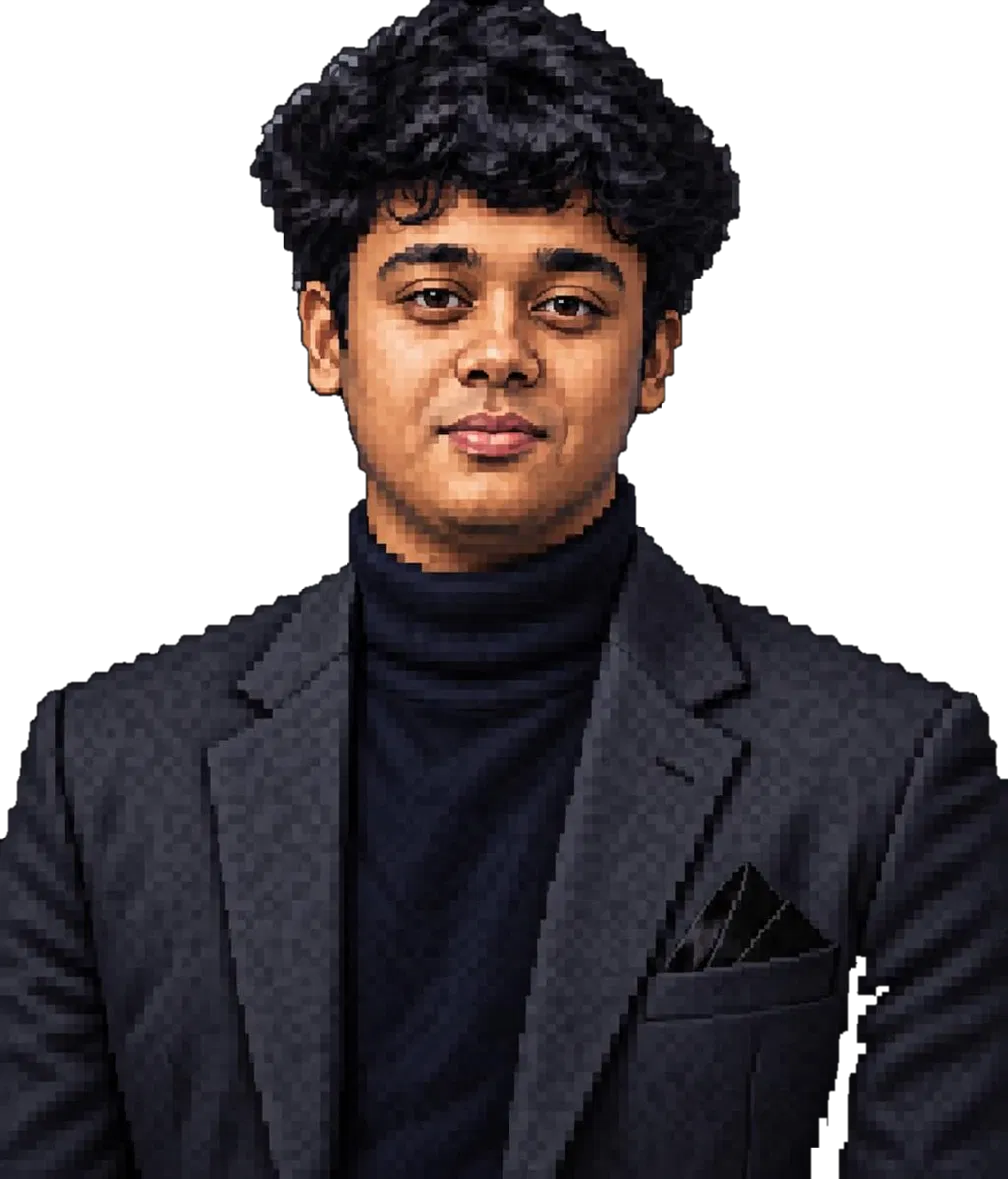
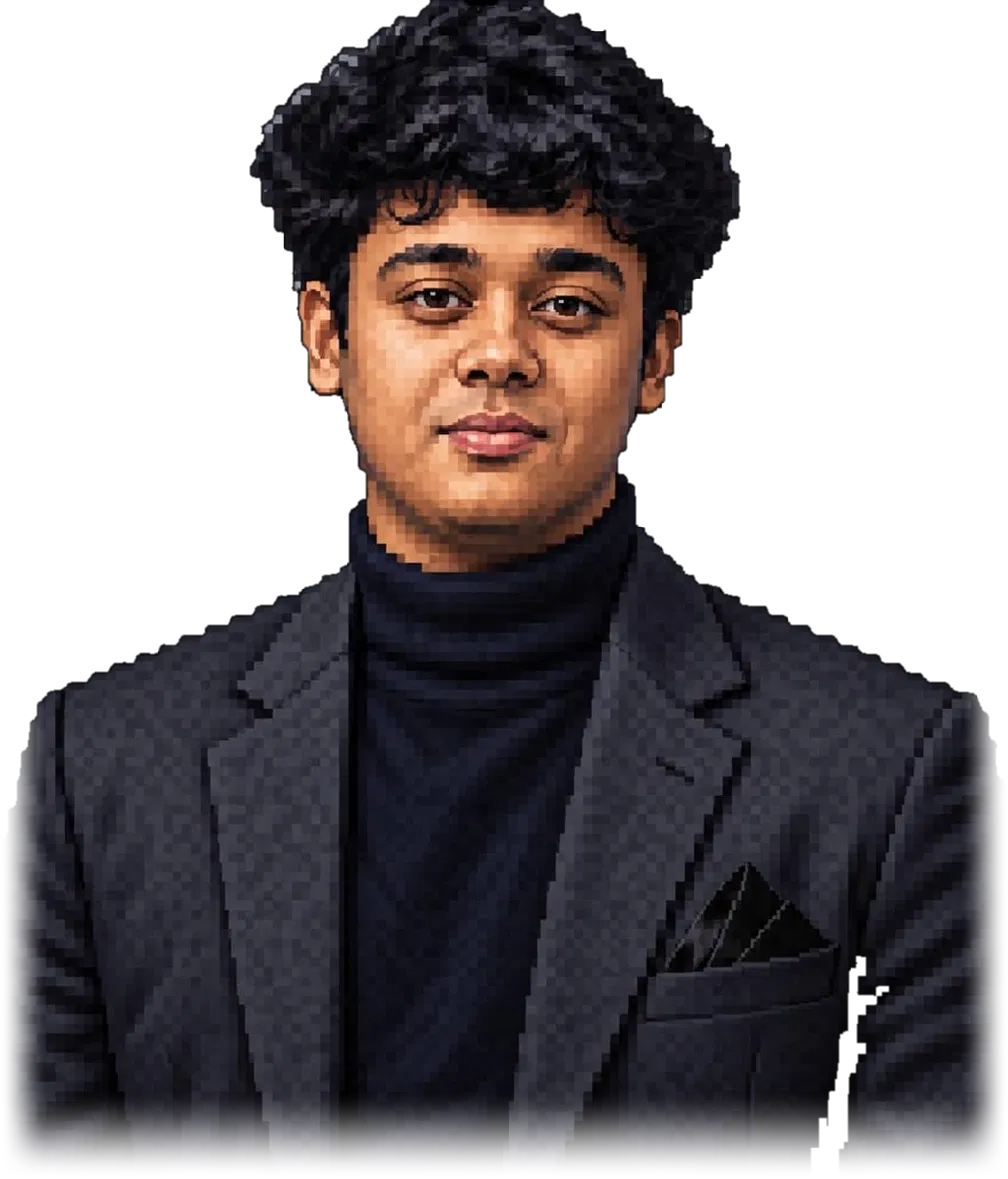
fix(profile): slow and blend portrait reveal

Changed region(s): [[0.0, 0.5802, 1.0, 1.0]]

diff --git a/scripts/build-gargi-profile.py b/scripts/build-gargi-profile.py
@@ -1,7 +1,7 @@
 """Build the portrait and repo-driven profile visuals.
 
-The portrait pipeline keeps the supplied RGB source byte-for-byte, applies only
-the approved transparency mask, and creates a lossless top-to-bottom reveal.
+The portrait pipeline keeps the supplied RGB source byte-for-byte, softly blends
+the outer crop into the page, and creates a lossless top-to-bottom line reveal.
 Toolbox and radar data come from profile-signals.json.
 """
 
@@ -61,22 +61,44 @@ def build_portrait_assets(source_path: Path, alpha_path: Path) -> None:
         exact_rgb = source_image.copy()
         alpha = alpha_image.convert("L")
 
+    # The supplied cut-out reaches the side and bottom canvas edges. Feathering
+    # only those outermost pixels keeps the face, hair and clothing crisp while
+    # preventing the portrait from looking pasted onto the README background.
+    side_fade = 48
+    bottom_fade = 88
+    edge_blend = Image.new("L", exact_rgb.size, 255)
+    edge_pixels = edge_blend.load()
+    width, height = exact_rgb.size
+    for y in range(height):
+        bottom_distance = height - 1 - y
+        bottom_progress = min(1.0, bottom_distance / bottom_fade)
+        bottom_opacity = bottom_progress * bottom_progress * (3 - 2 * bottom_progress)
+        for x in range(width):
+            side_distance = min(x, width - 1 - x)
+            side_progress = min(1.0, side_distance / side_fade)
+            side_opacity = side_progress * side_progress * (3 - 2 * side_progress)
+            edge_pixels[x, y] = round(255 * side_opacity * bottom_opacity)
+
+    blended_alpha = ImageChops.multiply(alpha, edge_blend)
+    if blended_alpha.getpixel((width // 2, height // 2)) != alpha.getpixel((width // 2, height // 2)):
+        raise RuntimeError("Portrait edge blend reached the protected centre detail.")
+    if blended_alpha.getpixel((0, height - 1)) >= alpha.getpixel((0, height - 1)):
+        raise RuntimeError("Portrait crop corners must fade into the page background.")
     portrait = exact_rgb.convert("RGBA")
-    portrait.putalpha(alpha)
+    portrait.putalpha(blended_alpha)
     portrait.save(PORTRAIT_STATIC, format="PNG", optimize=True)
 
+    # Twelve crisp opacity bands make the moving boundary read as pixel rows.
+    # The first frame begins at y=0 rather than travelling in from above.
     edge_height = 96
     layer_opacities = (240, 222, 201, 179, 156, 130, 105, 79, 56, 36, 18, 6)
     layer_height = edge_height // len(layer_opacities)
-    frame_count = 30
+    frame_count = 49
     frames = []
-    width, height = portrait.size
 
-    for frame_index in range(frame_count + 1):
-        progress = frame_index / frame_count
-        eased = progress * progress * (3 - 2 * progress)
-        reveal_front = round(eased * (height + edge_height))
-        solid_end = reveal_front - edge_height
+    for frame_index in range(frame_count):
+        progress = frame_index / (frame_count - 1)
+        solid_end = min(height, round((progress * height) / layer_height) * layer_height)
         reveal_alpha = Image.new("L", portrait.size, 0)
         draw = ImageDraw.Draw(reveal_alpha)
         if solid_end > 0:
@@ -88,10 +110,10 @@ def build_portrait_assets(source_path: Path, alpha_path: Path) -> None:
                 draw.rectangle((0, max(0, top), width, min(height, bottom) - 1), fill=opacity)
 
         frame = exact_rgb.convert("RGBA")
-        frame.putalpha(ImageChops.multiply(alpha, reveal_alpha))
+        frame.putalpha(ImageChops.multiply(blended_alpha, reveal_alpha))
         frames.append(frame)
 
-    durations = [75] * len(frames)
+    durations = [92] * len(frames)
     durations[-1] = 16_000_000
     frames[0].save(
         REVEAL,
@@ -109,11 +131,15 @@ def build_portrait_assets(source_path: Path, alpha_path: Path) -> None:
     with Image.open(REVEAL) as animation:
         if animation.n_frames != len(frames):
             raise RuntimeError("Portrait reveal frame count changed during encoding.")
+        animation.seek(0)
+        first_visible_bounds = animation.convert("RGBA").getchannel("A").getbbox()
+        if first_visible_bounds is None or first_visible_bounds[1] != 0:
+            raise RuntimeError("Portrait reveal must begin on the very first pixel row.")
         animation.seek(animation.n_frames - 1)
         decoded = animation.convert("RGBA")
-        if decoded.getchannel("A").tobytes() != alpha.tobytes():
+        if decoded.getchannel("A").tobytes() != blended_alpha.tobytes():
             raise RuntimeError("Lossless portrait reveal altered the approved transparency.")
-        visible = alpha.point(lambda value: 255 if value else 0)
+        visible = blended_alpha.point(lambda value: 255 if value else 0)
         colour_delta = ImageChops.difference(decoded.convert("RGB"), exact_rgb)
         visible_delta = ImageChops.composite(colour_delta, Image.new("RGB", portrait.size), visible)
         if visible_delta.getbbox() is not None:
